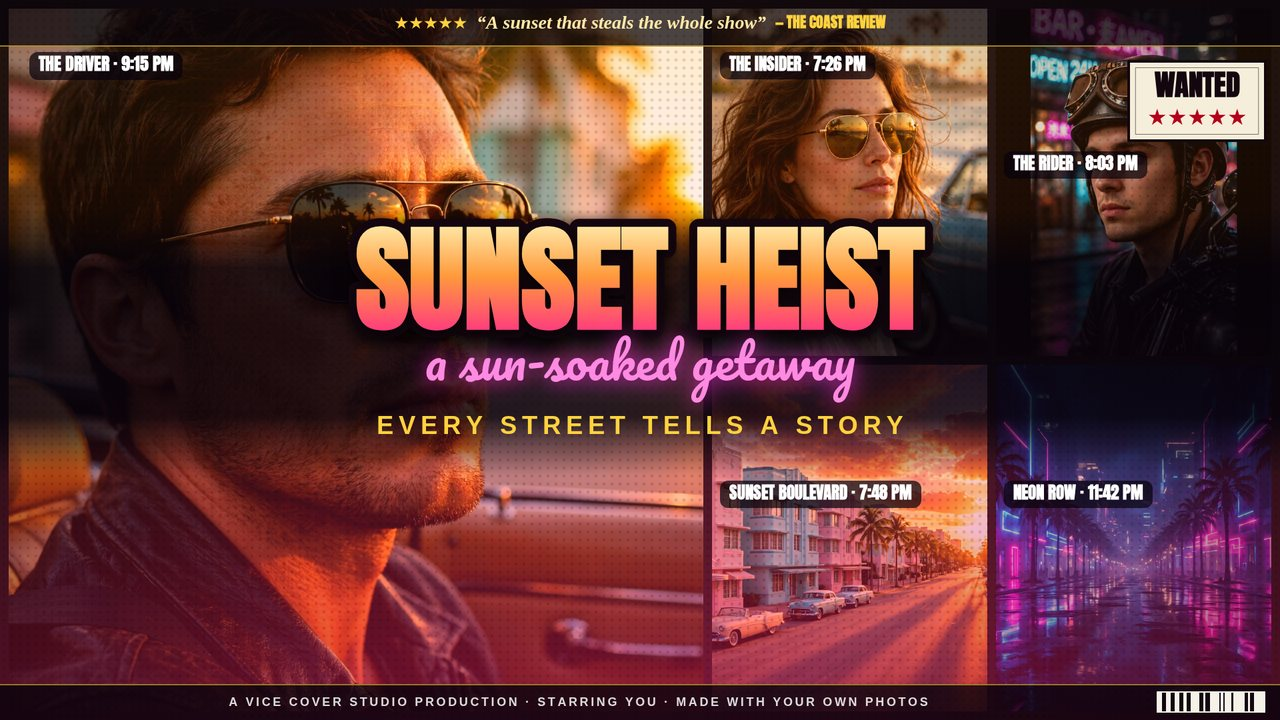
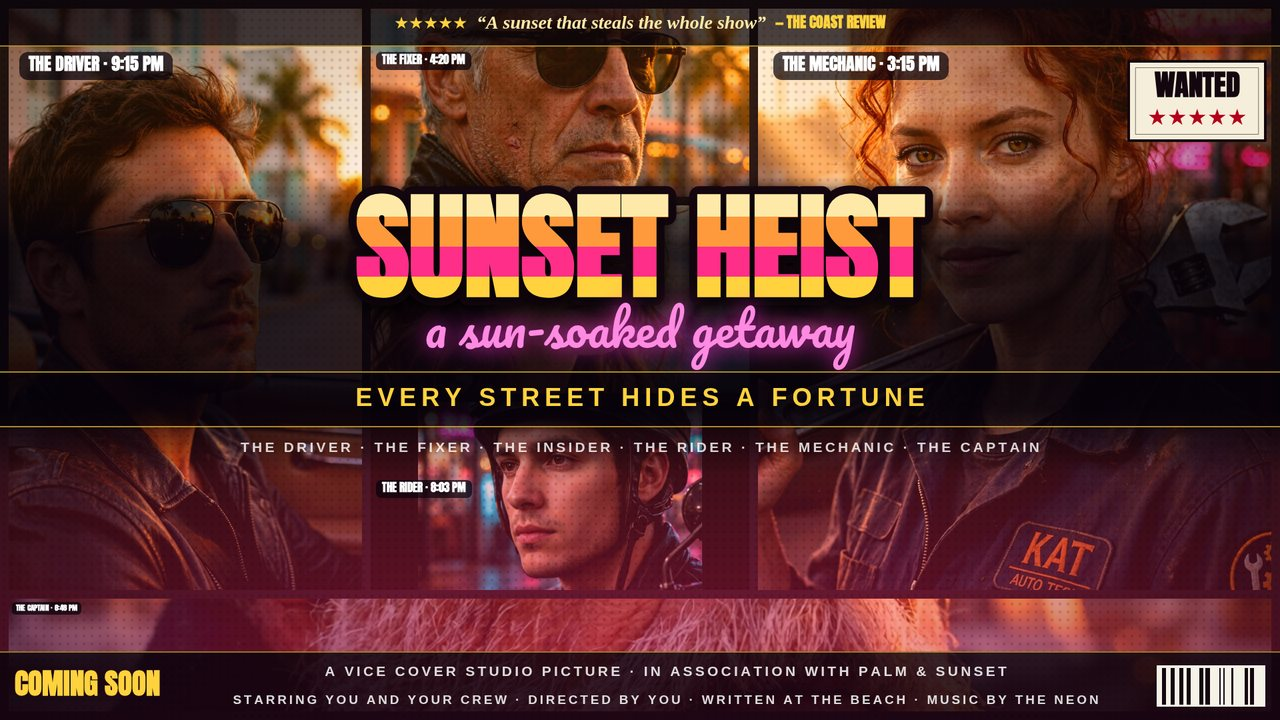
Round 5: six-person cast, film credits, full-width tagline bar, sunset-stripes title, cast billing block
- Three new model-made portraits (fixer, mechanic, captain); cover hero
  now shows six people, no location panels; tray 11 photos, portraits first
- Two-line editable film credits footer + big COMING SOON + barcode
- Tagline is now a full-width bar under the title
- New 'stripes' title fill: hard-stop sunset bands (cream/orange/pink/gold)
- New cast billing line under the tagline bar, derived from the panels'
  own role captions - it always names the people on the cover
- All copy is original; no text, image or layout copied from the top 3

diff --git a/app/src/cover.js b/app/src/cover.js
@@ -194,9 +194,11 @@ export function wrapCaption(ctx, text, maxWidth, font) {
 }
 
 // The production footer strip along the very bottom edge, when shown.
-// Kept small (5% of the height) so the title block still dominates.
+// Two lines of film credits when a second line is set (9.5% of the
+// height), one line otherwise (5%). The title block reserves this room.
 export function footerHeight(H, state) {
-  return state.showFooter === false ? 0 : Math.round(H * 0.05);
+  if (state.showFooter === false) return 0;
+  return (state.footer2 || '').trim() ? Math.round(H * 0.095) : Math.round(H * 0.05);
 }
 
 // The quote strip's height, when shown. Shared by the strip itself, the
@@ -233,13 +235,29 @@ export function measureTitleBlock(ctx, W, H, state) {
   const scriptSize = Math.round(size * 0.42);
   const tagSize = Math.round(size * 0.22);
   const pad = Math.round(H * 0.02);
-  const blockH = lines.length * lineH + (script ? Math.round(scriptSize * 1.5) : 0) + (tag ? Math.round(tagSize * 1.9) : 0);
+  // Cast billing: the roles of the panels' photos, joined as one line
+  // ("THE DRIVER · THE FIXER · ...") — a film-poster billing block that
+  // follows the user's own cast, so it always names the people actually
+  // on the cover. Derived from the panel captions, never copied text.
+  const billing = (() => {
+    const roles = [];
+    for (const p of (state.panels || [])) {
+      const cap = (p?.caption || '').trim();
+      if (!cap) continue;
+      const role = cap.split('·')[0].trim();
+      if (role && !roles.includes(role)) roles.push(role);
+    }
+    return roles.length >= 2 ? roles.join(' · ') : '';
+  })();
+  const billingSize = Math.round(tagSize * 0.55);
+  const billingH = billing ? Math.round(tagSize * 0.95) : 0;
+  const blockH = lines.length * lineH + (script ? Math.round(scriptSize * 1.5) : 0) + (tag ? Math.round(tagSize * 2.2) : 0) + billingH;
   const fH = footerHeight(H, state);
   const pos = state.captionPos === 'center' ? 'center' : state.captionPos === 'top' ? 'top' : 'bottom';
   const topY = pos === 'top' ? pad
     : pos === 'center' ? Math.round((H - fH - blockH) / 2)
     : H - pad - fH - blockH;
-  return { text, script, tag, size, font, lines, lineH, scriptSize, tagSize, pad, blockH, pos, topY, footerH: fH };
+  return { text, script, tag, size, font, lines, lineH, scriptSize, tagSize, pad, blockH, pos, topY, footerH: fH, billing, billingSize, billingH };
 }
 
 // The title block: the dominant element of the cover, and it must READ as
@@ -251,7 +269,7 @@ export function measureTitleBlock(ctx, W, H, state) {
 // it does, so the title stays huge in every export size.
 export function drawTitleBlock(ctx, W, H, state) {
   const g = measureTitleBlock(ctx, W, H, state);
-  const { text, script, tag, size, font, lines, lineH, scriptSize, tagSize, pad, blockH, pos, topY } = g;
+  const { text, script, tag, size, font, lines, lineH, scriptSize, tagSize, pad, blockH, pos, topY, billing, billingSize, billingH } = g;
   if (!text && !script && !tag) return;
   // Dark scrim behind the block so the giant letters read over any photo.
   const scrim = ctx.createLinearGradient(0, topY - pad, 0, topY + blockH + pad);
@@ -287,6 +305,18 @@ export function drawTitleBlock(ctx, W, H, state) {
     fill.addColorStop(0, '#ffffff');
     fill.addColorStop(0.5, '#aef3ff');
     fill.addColorStop(1, '#ff4fd8');
+  } else if (state.textStyle === 'stripes') {
+    // Sunset stripes: hard colour stops make horizontal bands across the
+    // letters, the striped sunset fill the top covers use.
+    fill = ctx.createLinearGradient(0, topY, 0, topY + lines.length * lineH);
+    fill.addColorStop(0, '#ffe9a8');
+    fill.addColorStop(0.22, '#ffe9a8');
+    fill.addColorStop(0.22, '#ff9a3c');
+    fill.addColorStop(0.48, '#ff9a3c');
+    fill.addColorStop(0.48, '#ff2e88');
+    fill.addColorStop(0.74, '#ff2e88');
+    fill.addColorStop(0.74, '#ffd23e');
+    fill.addColorStop(1, '#ffd23e');
   } else {
     fill = '#ffffff';
   }
@@ -319,12 +349,48 @@ export function drawTitleBlock(ctx, W, H, state) {
     ctx.shadowBlur = 0;
     cursor += Math.round(scriptSize * 1.5);
   }
-  // Tagline: yellow caps, letterspaced, on its own line.
+  // Tagline: a full-width bar under the title, the way the top covers run
+  // a tagline strip across the whole poster — dark band, gold rules, the
+  // yellow caps line centred in it. The font shrinks until it fits.
   if (tag) {
-    ctx.font = `700 ${tagSize}px 'Arial Narrow', sans-serif`;
+    const barH = Math.round(tagSize * 2.2);
+    const barY = cursor - Math.round(tagSize * 0.35);
+    ctx.fillStyle = 'rgba(5,2,10,0.62)';
+    ctx.fillRect(0, barY, W, barH);
+    ctx.fillStyle = 'rgba(255,210,62,0.65)';
+    const rule = Math.max(2, Math.round(H * 0.002));
+    ctx.fillRect(0, barY, W, rule);
+    ctx.fillRect(0, barY + barH - rule, W, rule);
     const spaced = tag.toUpperCase().split('').join('\u2009');
+    let tfs = tagSize;
+    ctx.textAlign = 'center';
+    ctx.textBaseline = 'middle';
+    while (tfs > 10) {
+      ctx.font = `700 ${tfs}px 'Arial Narrow', sans-serif`;
+      if (ctx.measureText(spaced).width <= W * 0.92) break;
+      tfs = Math.round(tfs * 0.92);
+    }
+    ctx.font = `700 ${tfs}px 'Arial Narrow', sans-serif`;
     ctx.fillStyle = '#ffd23e';
-    ctx.fillText(spaced, W / 2, cursor + Math.round(tagSize * 0.85));
+    ctx.fillText(spaced, W / 2, barY + barH / 2);
+  }
+  // Cast billing line under the tagline bar: the roles on this cover, in
+  // small letterspaced caps. Sits inside the title block's scrim, below
+  // the tagline slot (or below the script when there is no tagline).
+  if (billing) {
+    const spaced = billing.toUpperCase().split('').join('\u2009');
+    let bfs = billingSize;
+    ctx.textAlign = 'center';
+    ctx.textBaseline = 'middle';
+    while (bfs > 9) {
+      ctx.font = `700 ${bfs}px 'Arial Narrow', sans-serif`;
+      if (ctx.measureText(spaced).width <= W * 0.92) break;
+      bfs = Math.round(bfs * 0.92);
+    }
+    ctx.font = `700 ${bfs}px 'Arial Narrow', sans-serif`;
+    ctx.fillStyle = 'rgba(255,255,255,0.82)';
+    const billingY = cursor + (tag ? Math.round(tagSize * 2.2) : 0) + Math.round(billingH / 2);
+    ctx.fillText(spaced, W / 2, billingY);
   }
 }
 
@@ -507,6 +573,9 @@ export const PANEL_LABELS = {
   driver: 'THE DRIVER · 9:15 PM',
   rider: 'THE RIDER · 8:03 PM',
   woman: 'THE INSIDER · 7:26 PM',
+  fixer: 'THE FIXER · 4:20 PM',
+  mechanic: 'THE MECHANIC · 3:15 PM',
+  captain: 'THE CAPTAIN · 6:48 PM',
 };
 
 export function defaultPanelLabel(name) {
@@ -598,10 +667,11 @@ export function drawQuoteStrip(ctx, W, H, state) {
   return { x0: 0, y0: 0, x1: W, y1: qh };
 }
 
-// A production footer along the very bottom edge: an editable credit line
+// A production footer along the very bottom edge: two lines of film
+// credits when a second line is set, a big gold COMING SOON at the left,
 // and a procedural barcode at the right (seeded bars, so every export is
-// byte-identical for the same state). The strip sits below the title block,
-// which measureTitleBlock already reserves room for.
+// byte-identical for the same state). The strip sits below the title
+// block, which measureTitleBlock already reserves room for.
 export function drawFooter(ctx, W, H, state) {
   const fH = footerHeight(H, state);
   if (!fH) return;
@@ -630,22 +700,39 @@ export function drawFooter(ctx, W, H, state) {
     if (rnd() > 0.25) ctx.fillRect(x, by + Math.round(bh * 0.06), wBar, Math.round(bh * 0.88));
     x += wBar + gap;
   }
-  // Credit line, centred in the space left of the barcode.
-  const text = (state.footer || '').trim().toUpperCase();
-  if (text) {
-    const maxW = bx - m - m;
-    let fs = Math.round(fH * 0.34);
-    ctx.textAlign = 'center';
-    ctx.textBaseline = 'middle';
+  // COMING SOON in big gold Anton at the left, vertically centred.
+  const twoLine = !!(state.footer2 || '').trim();
+  const soonSize = Math.round(fH * (twoLine ? 0.42 : 0.5));
+  ctx.font = `900 ${soonSize}px Anton, sans-serif`;
+  const soonW = ctx.measureText('COMING SOON').width;
+  const soonX = m;
+  ctx.fillStyle = '#ffd23e';
+  ctx.textAlign = 'left';
+  ctx.textBaseline = 'middle';
+  ctx.fillText('COMING SOON', soonX, y0 + fH / 2 + Math.round(soonSize * 0.04));
+  // Credit lines, centred in the space between COMING SOON and the barcode.
+  const lines = [state.footer, state.footer2].map((s) => (s || '').trim().toUpperCase()).filter(Boolean);
+  const zoneX0 = soonX + soonW + m * 2;
+  const zoneX1 = bx - m;
+  const zoneW = zoneX1 - zoneX0;
+  const zoneCx = zoneX0 + zoneW / 2;
+  ctx.textAlign = 'center';
+  ctx.textBaseline = 'middle';
+  lines.forEach((line, li) => {
+    const spaced = line.split('').join('\u2009');
+    let fs = Math.round(fH * (lines.length > 1 ? 0.2 : 0.34));
     while (fs > 8) {
       ctx.font = `700 ${fs}px 'Arial Narrow', sans-serif`;
-      if (ctx.measureText(text.split('').join('\u2009')).width <= maxW) break;
+      if (ctx.measureText(spaced).width <= zoneW) break;
       fs = Math.round(fs * 0.92);
     }
     ctx.font = `700 ${fs}px 'Arial Narrow', sans-serif`;
     ctx.fillStyle = 'rgba(255,255,255,0.85)';
-    ctx.fillText(text.split('').join('\u2009'), bx / 2, y0 + fH / 2 + Math.round(fs * 0.06));
-  }
+    const ly = lines.length > 1
+      ? y0 + fH * (li === 0 ? 0.3 : 0.72)
+      : y0 + fH / 2 + Math.round(fs * 0.06);
+    ctx.fillText(spaced, zoneCx, ly);
+  });
   ctx.restore();
 }
 
@@ -733,7 +820,7 @@ export function halftone(ctx, W, H) {
 // Renders the whole cover. `state` carries layout, grade, size, caption,
 // subtitle, tagline, badgeText, badgeStyle, showBadge, halftone,
 // showPanelLabels, captionPos, captionScale, outline, textStyle, quote,
-// quoteSource, showQuote, footer, showFooter, and
+// quoteSource, showQuote, footer, footer2, showFooter, and
 // panels: an array of { photo, zoom, ox, oy, caption } where photo is an
 // image element or null.
 // A panel with no photo gets a deep purple placeholder with its number.

diff --git a/app/src/main.js b/app/src/main.js
@@ -14,12 +14,12 @@ const panelLabel = document.getElementById('panelLabel');
 // The working state. A panel holds { photo, zoom, ox, oy } where photo is an
 // index into state.tray (or null for an empty panel).
 export const state = {
-  layout: 'showcase',
+  layout: 'keyart',
   grade: 'sunset',
   size: 'wide',
   caption: 'Sunset Heist',
   subtitle: 'a sun-soaked getaway',
-  tagline: 'Every street tells a story',
+  tagline: 'Every street hides a fortune',
   badgeText: 'Fresh',
   badgeStyle: 'starburst',
   showBadge: true,
@@ -32,7 +32,8 @@ export const state = {
   quote: 'A sunset that steals the whole show',
   quoteSource: 'The Coast Review',
   showQuote: true,
-  footer: 'A Vice Cover Studio production · Starring you · Made with your own photos',
+  footer: 'A Vice Cover Studio picture · In association with Palm & Sunset',
+  footer2: 'Starring you and your crew · Directed by you · Written at the beach · Music by the neon',
   showFooter: true,
   tray: [],
   panels: [],
@@ -123,7 +124,8 @@ function refreshTray() {
 export async function loadSamples() {
   // Portraits first: the default cover is led by people, the way the top
   // covers are — the hero panel takes the first photo in the tray.
-  const names = ['driver', 'rider', 'woman', 'sunset', 'neon', 'pier', 'boulevard', 'lifeguard'];
+  // Six cast portraits, then the places.
+  const names = ['driver', 'rider', 'woman', 'fixer', 'mechanic', 'captain', 'sunset', 'neon', 'pier', 'boulevard', 'lifeguard'];
   for (const name of names) {
     if (state.tray.some((t) => t.name === name)) continue;
     try {
@@ -217,9 +219,11 @@ document.getElementById('textStyle').addEventListener('change', (e) => {
 const quoteInput = document.getElementById('quote');
 const quoteSourceInput = document.getElementById('quoteSource');
 const footerInput = document.getElementById('footer');
+const footer2Input = document.getElementById('footer2');
 quoteInput.addEventListener('input', () => { state.quote = quoteInput.value; redraw(); });
 quoteSourceInput.addEventListener('input', () => { state.quoteSource = quoteSourceInput.value; redraw(); });
 footerInput.addEventListener('input', () => { state.footer = footerInput.value; redraw(); });
+footer2Input.addEventListener('input', () => { state.footer2 = footer2Input.value; redraw(); });
 document.getElementById('showQuote').addEventListener('change', (e) => {
   state.showQuote = e.target.checked;
   redraw();
@@ -389,6 +393,7 @@ window.__vice = {
   setQuoteSource: (text) => { state.quoteSource = text; const el = document.getElementById('quoteSource'); if (el) el.value = text; redraw(); },
   setShowQuote: (on) => { state.showQuote = !!on; const el = document.getElementById('showQuote'); if (el) el.checked = !!on; redraw(); },
   setFooter: (text) => { state.footer = text; const el = document.getElementById('footer'); if (el) el.value = text; redraw(); },
+  setFooter2: (text) => { state.footer2 = text; const el = document.getElementById('footer2'); if (el) el.value = text; redraw(); },
   setShowFooter: (on) => { state.showFooter = !!on; const el = document.getElementById('showFooter'); if (el) el.checked = !!on; redraw(); },
   setCaptionPos: (pos) => { state.captionPos = pos; const el = document.getElementById('captionPos'); if (el) el.value = pos; redraw(); },
 };

diff --git a/app/index.html b/app/index.html
@@ -87,6 +87,7 @@
             <option value="solid">Solid white</option>
             <option value="sunset" selected>Sunset gradient</option>
             <option value="neon">Neon gradient</option>
+            <option value="stripes">Sunset stripes</option>
           </select>
         </label>
       </div>
@@ -110,13 +111,16 @@
       <label class="check">Show quote strip
         <input id="showQuote" type="checkbox" checked>
       </label>
-      <label>Production footer
-        <input id="footer" type="text" maxlength="100" value="A Vice Cover Studio production · Starring you · Made with your own photos">
+      <label>Production footer — line 1
+        <input id="footer" type="text" maxlength="100" value="A Vice Cover Studio picture · In association with Palm & Sunset">
+      </label>
+      <label>Production footer — line 2
+        <input id="footer2" type="text" maxlength="100" value="Starring you and your crew · Directed by you · Written at the beach · Music by the neon">
       </label>
       <label class="check">Show footer &amp; barcode
         <input id="showFooter" type="checkbox" checked>
       </label>
-      <p class="hint">The quote strip opens the cover with five stars and a press line; the footer closes it with a production credit and a barcode. Both are drawn on the cover itself, so they appear in every export.</p>
+      <p class="hint">The quote strip opens the cover with five stars and a press line; the footer closes it with two lines of film credits, a big COMING SOON and a barcode. Both are drawn on the cover itself, so they appear in every export.</p>
     </fieldset>
 
     <fieldset>

diff --git a/app/src/shots.js b/app/src/shots.js
@@ -55,6 +55,8 @@ export async function runShot(shot, query) {
   if (showQuote !== null) vice.setShowQuote(showQuote !== '0');
   const footer = query.get('footer');
   if (footer !== null) vice.setFooter(footer);
+  const footer2 = query.get('footer2');
+  if (footer2 !== null) vice.setFooter2(footer2);
   const showFooter = query.get('showFooter');
   if (showFooter !== null) vice.setShowFooter(showFooter !== '0');
   const photos = query.get('photo');
